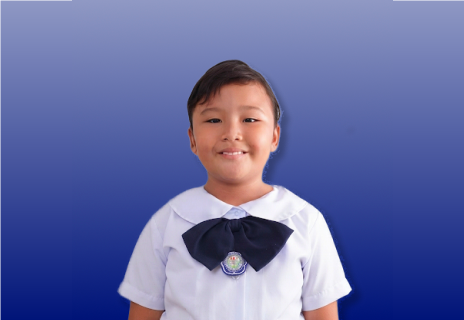
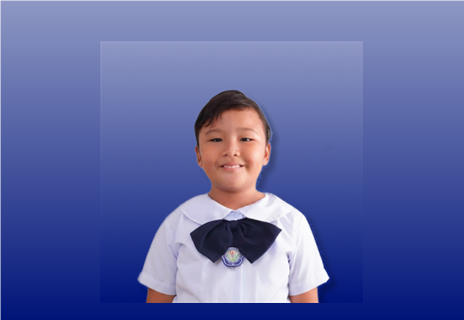
feat: lowered Kindergarten/Elementary dropdown images (face + body visible) + custom images on BEED/BSTM/Criminology
- Kindergarten + Elementary: subjects scaled down and positioned lower,
  headroom above, face and body visible
- Fixed missing quote in Criminology image URL
- New custom iili.io images on BEED, BSTM, Criminology pages

Changed region(s): [[0.2414, 0.1875, 0.7845, 1.0]]

diff --git a/src/pages/BEED.tsx b/src/pages/BEED.tsx
@@ -26,7 +26,7 @@ export default function BEED() {
             </div>
           </div>
           <div className="md:flex-[1.2] relative bg-[#2D3748] md:border-l-2 md:border-dashed md:border-[#4A5568] min-h-[240px]">
-            <img src="https://images.unsplash.com/photo-1509062522246-3755977927d7?auto=format&fit=crop&w=800&q=80" alt="Nutrition Month Event" className="w-full h-full object-cover" loading="lazy" />
+            <img src="https://iili.io/nnFNCjn.png" alt="Nutrition Month Event" className="w-full h-full object-cover" loading="lazy" />
           </div>
         </section>
 
@@ -66,25 +66,25 @@ export default function BEED() {
               icon: '👩🏫', label: 'PROFESSIONAL EDUCATION', title: 'Teaching Strategies and Methods',
               desc: 'Learn effective teaching strategies, classroom management, and child development to create meaningful learning experiences.',
               items: ['Child and Adolescent Development', 'Curriculum and Instruction', 'Classroom Management'],
-              img: 'https://images.unsplash.com/photo-1580582932707-520aed937b7b?auto=format&fit=crop&w=600&q=80', alt: 'Classroom Teaching',
+              img: 'https://iili.io/nnFNxCG.png', alt: 'Classroom Teaching',
             },
             {
               icon: '💬', label: 'LANGUAGE & COMMUNICATION', title: 'English and Filipino Literature',
               desc: 'Strengthen your communication skills in both English and Filipino, and learn how to use language effectively in teaching and in life.',
               items: ['Reading and Writing', 'Literature', 'Communication Skills'],
-              img: 'https://images.unsplash.com/photo-1456513080510-7bf3a84b82f8?auto=format&fit=crop&w=600&q=80', alt: 'Students Reading',
+              img: 'https://iili.io/nnFNzGf.png', alt: 'Students Reading',
             },
             {
               icon: '👥', label: 'FIELD EXPERIENCE', title: 'Teaching Practicum and Internship',
               desc: 'Gain real classroom experience through supervised teaching, observation, and community immersion',
               items: ['Observation', 'Demonstration Teaching', 'Student Teaching'],
-              img: 'https://images.unsplash.com/photo-1529390079861-591de354faf5?auto=format&fit=crop&w=600&q=80', alt: 'Classroom Observation',
+              img: 'https://iili.io/nnFNI44.png', alt: 'Classroom Observation',
             },
             {
               icon: '❤', label: 'VALUES AND CHARACTERS', title: 'Professionalism and Social Responsibility',
               desc: 'Build your values, leadership skills, and commitment to serve the community through education.',
               items: ['Christian Living', 'Ethics and Values', 'Community Engagement'],
-              img: 'https://images.unsplash.com/photo-1577896851231-70ef18881754?auto=format&fit=crop&w=600&q=80', alt: 'School Assembly',
+              img: 'https://iili.io/nnFNAa2.png', alt: 'School Assembly',
             },
           ].map((c) => (
             <div key={c.title} className="bg-[#0F2356] rounded-2xl flex flex-col md:flex-row overflow-hidden text-white min-h-[300px]">
@@ -124,7 +124,7 @@ export default function BEED() {
             </div>
           </div>
           <div className="md:flex-1 bg-[#E2E8F0] md:border-l-2 md:border-dashed md:border-[#CBD5E0] min-h-[220px]">
-            <img src="https://images.unsplash.com/photo-1562774053-701939374585?auto=format&fit=crop&w=800&q=80" alt="Cebu Eastern College Building" className="w-full h-full object-cover" loading="lazy" />
+            <img src="https://iili.io/nnFNRvS.png" alt="Cebu Eastern College Building" className="w-full h-full object-cover" loading="lazy" />
           </div>
         </section>
 

diff --git a/src/pages/BSTM.tsx b/src/pages/BSTM.tsx
@@ -25,7 +25,7 @@ export default function BSTM() {
             </a>
           </div>
           <div className="flex-1 relative bg-[#1A202C] min-h-[260px] md:min-h-[320px]">
-            <img src="https://images.unsplash.com/photo-1436491865332-7a61a109cc05?auto=format&fit=crop&w=800&q=80" alt="Tourism Management Students & Campus" className="w-full h-full object-cover" loading="lazy" />
+            <img src="https://iili.io/noH2yVp.png" alt="Tourism Management Students & Campus" className="w-full h-full object-cover" loading="lazy" />
           </div>
         </header>
 
@@ -57,14 +57,14 @@ export default function BSTM() {
               </ul>
             </div>
             <div className="md:flex-1 relative min-h-[180px]">
-              <img src="https://images.unsplash.com/photo-1488085061387-422e29b40080?auto=format&fit=crop&w=600&q=80" alt="Flight Attendants Uniform" className="w-full h-full object-cover" loading="lazy" />
+              <img src="https://iili.io/nnFwtkP.png" alt="Flight Attendants Uniform" className="w-full h-full object-cover" loading="lazy" />
             </div>
           </article>
 
           {/* Card 2: Mock Hotel & Aviation Simulation Laboratories */}
           <article className="border border-[#EDF2F7] rounded-xl overflow-hidden bg-white shadow-[0_4px_6px_-1px_rgba(0,0,0,0.03)] flex flex-col">
             <div className="h-[180px]">
-              <img src="https://images.unsplash.com/photo-1523240795612-9a054b0db644?auto=format&fit=crop&w=800&q=80" alt="Large Student Group Assembly" className="w-full h-full object-cover" loading="lazy" />
+              <img src="https://iili.io/nnFwyQa.png" alt="Large Student Group Assembly" className="w-full h-full object-cover" loading="lazy" />
             </div>
             <div className="p-6 flex flex-col flex-1">
               <span className="inline-block border border-[#FBD38D] text-[#DD6B20] text-[8px] font-bold tracking-wider px-2 py-0.5 rounded-full uppercase w-fit mb-3">
@@ -117,7 +117,7 @@ export default function BSTM() {
               </div>
             </div>
             <div className="md:flex-1 min-h-[180px]">
-              <img src="https://images.unsplash.com/photo-1562774053-701939374585?auto=format&fit=crop&w=600&q=80" alt="Campus Building" className="w-full h-full object-cover" loading="lazy" />
+              <img src="https://iili.io/nnFNJEv.png" alt="Campus Building" className="w-full h-full object-cover" loading="lazy" />
             </div>
           </article>
         </div>

diff --git a/src/pages/Criminology.tsx b/src/pages/Criminology.tsx
@@ -22,7 +22,7 @@ export default function Criminology() {
             </p>
           </div>
           <div className="md:flex-[1.1] relative bg-[#1A202C] min-h-[260px] md:min-h-[320px]">
-            <img src="https://images.unsplash.com/photo-1589829545856-d10d557cf95f?auto=format&fit=crop&w=800&q=80" alt="Criminology Cadets Assembly" className="w-full h-full object-cover" loading="lazy" />
+            <img src="https://iili.io/nnFNd4R.png" alt="Criminology Cadets Assembly" className="w-full h-full object-cover" loading="lazy" />
           </div>
         </header>
 
@@ -46,14 +46,14 @@ export default function Criminology() {
               </p>
             </div>
             <div className="md:flex-1 relative min-h-[180px]">
-              <img src="https://images.unsplash.com/photo-1521587760476-6c12a4b040da?auto=format&fit=crop&w=600&q=80" alt="Physical Tactical Training" className="w-full h-full object-cover" loading="lazy" />
+              <img src="https://iili.io/nnFNFYN.png" alt="Physical Tactical Training" className="w-full h-full object-cover" loading="lazy" />
             </div>
           </article>
 
           {/* Card 2: LEA */}
           <article className="border border-[#EDF2F7] rounded-xl overflow-hidden bg-white shadow-[0_4px_6px_-1px_rgba(0,0,0,0.03)] flex flex-col">
             <div className="h-[150px]">
-              <img src="https://images.unsplash.com/photo-1555597673-b21d5c935865?auto=format&fit=crop&w=600&q=80" alt="Martial Arts / Defensive Tactics" className="w-full h-full object-cover" loading="lazy" />
+              <img src="https://iili.io/nnFNKvI.png" alt="Martial Arts / Defensive Tactics" className="w-full h-full object-cover" loading="lazy" />
             </div>
             <div className="px-6 py-5 flex-1 flex flex-col">
               <div className="flex items-center gap-2 mb-1">
@@ -100,7 +100,7 @@ export default function Criminology() {
               </p>
             </div>
             <div className="md:flex-1 relative min-h-[180px]">
-              <img src="https://images.unsplash.com/photo-1505664194779-8beaceb93744?auto=format&fit=crop&w=600&q=80" alt="Crime Scene Investigation Demo" className="w-full h-full object-cover" loading="lazy" />
+              <img src="https://iili.io/nnFNfpt.png" alt="Crime Scene Investigation Demo" className="w-full h-full object-cover" loading="lazy" />
             </div>
           </article>
         </section>
